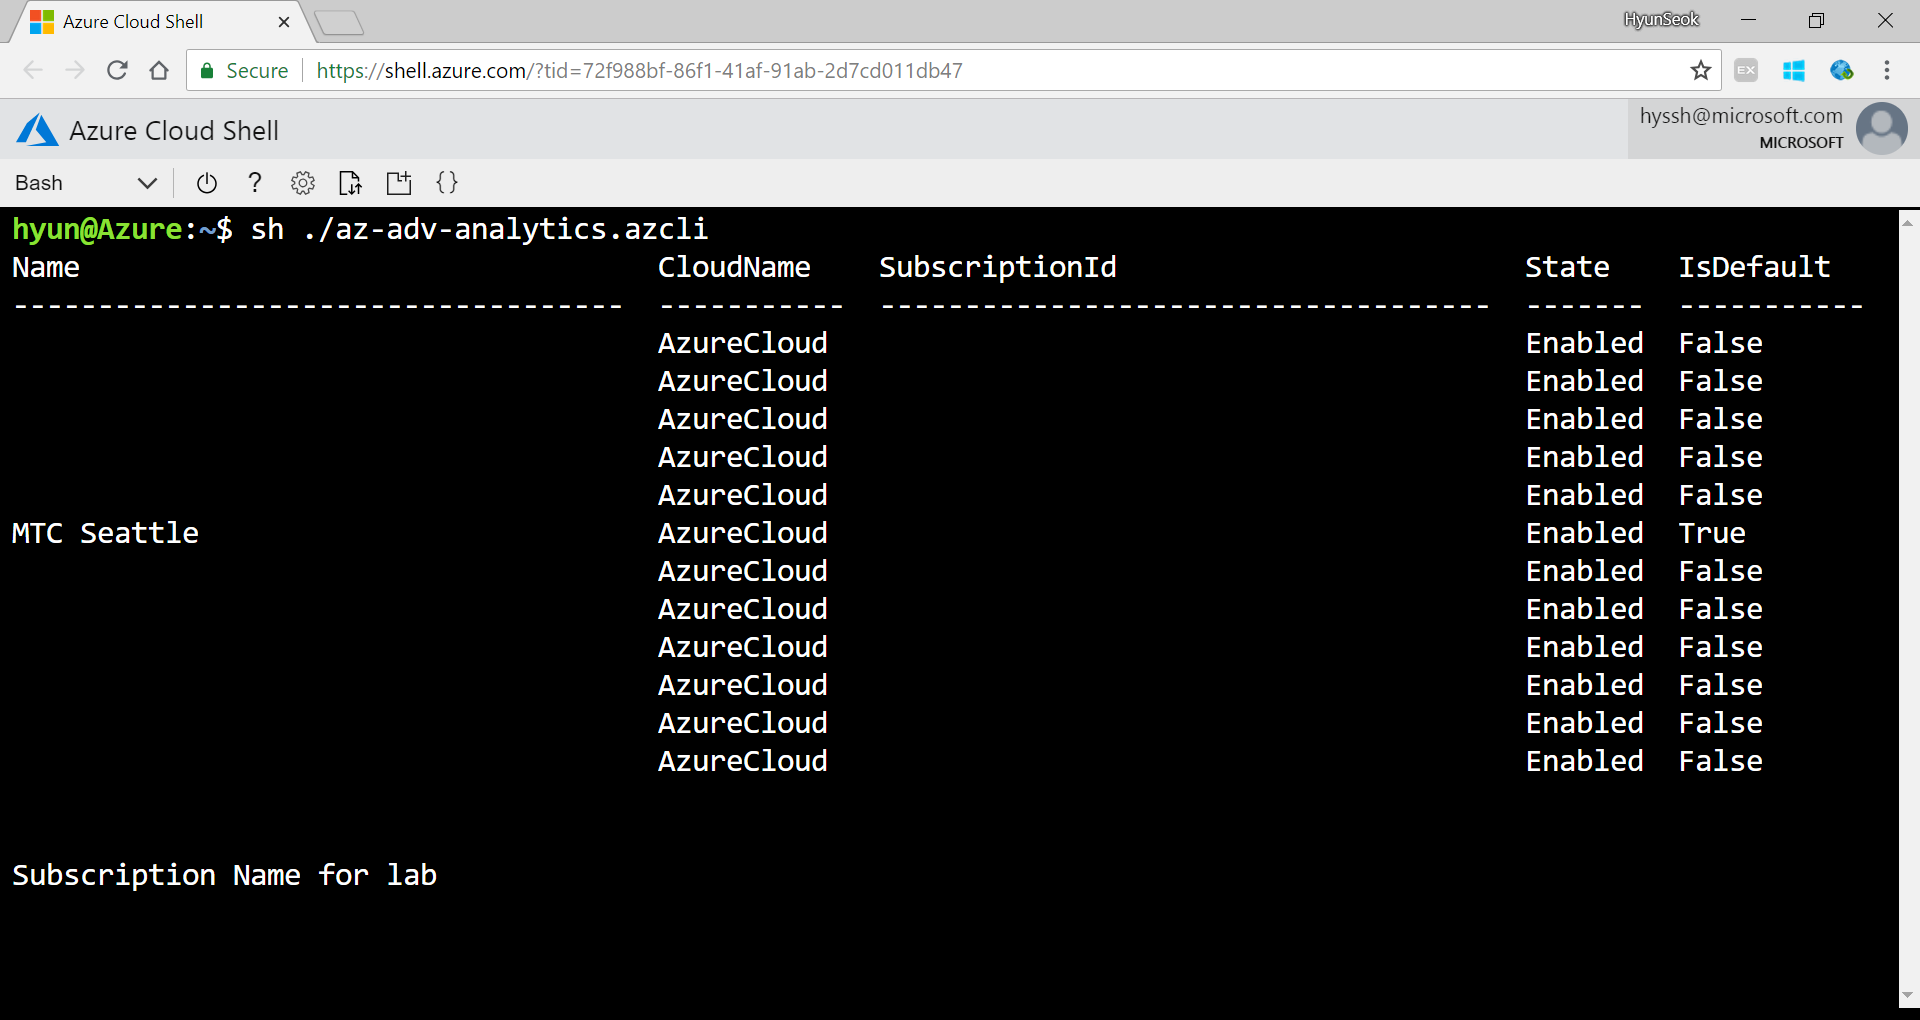
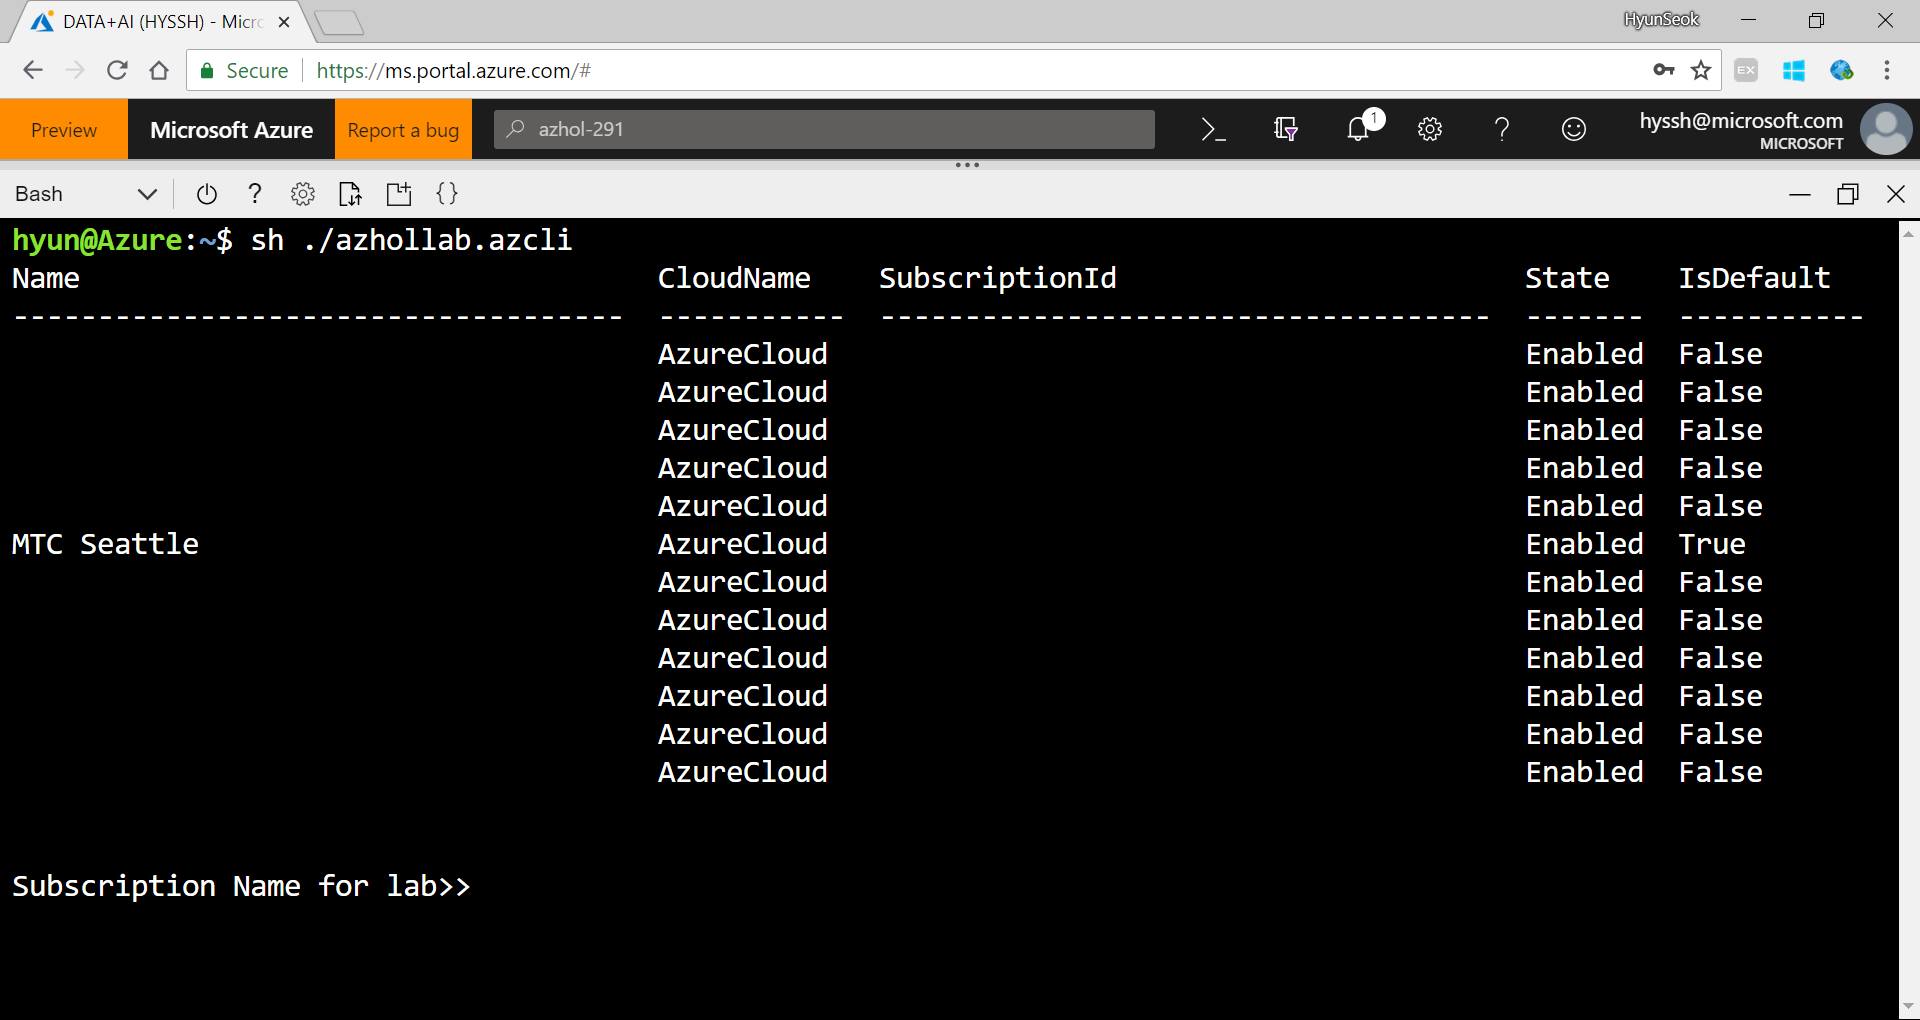
update script

diff --git a/00.SetupEnv.md b/00.SetupEnv.md
@@ -30,6 +30,10 @@
 
     > Care with subscription name when you run the script
 
+    ```bash
+    sh ./azhollab.acli
+    ```
+
     ![run script](./images/env01.01.png)
 
     Make sure you use correct __Azure Subscription__ for the Hands-on lab.
